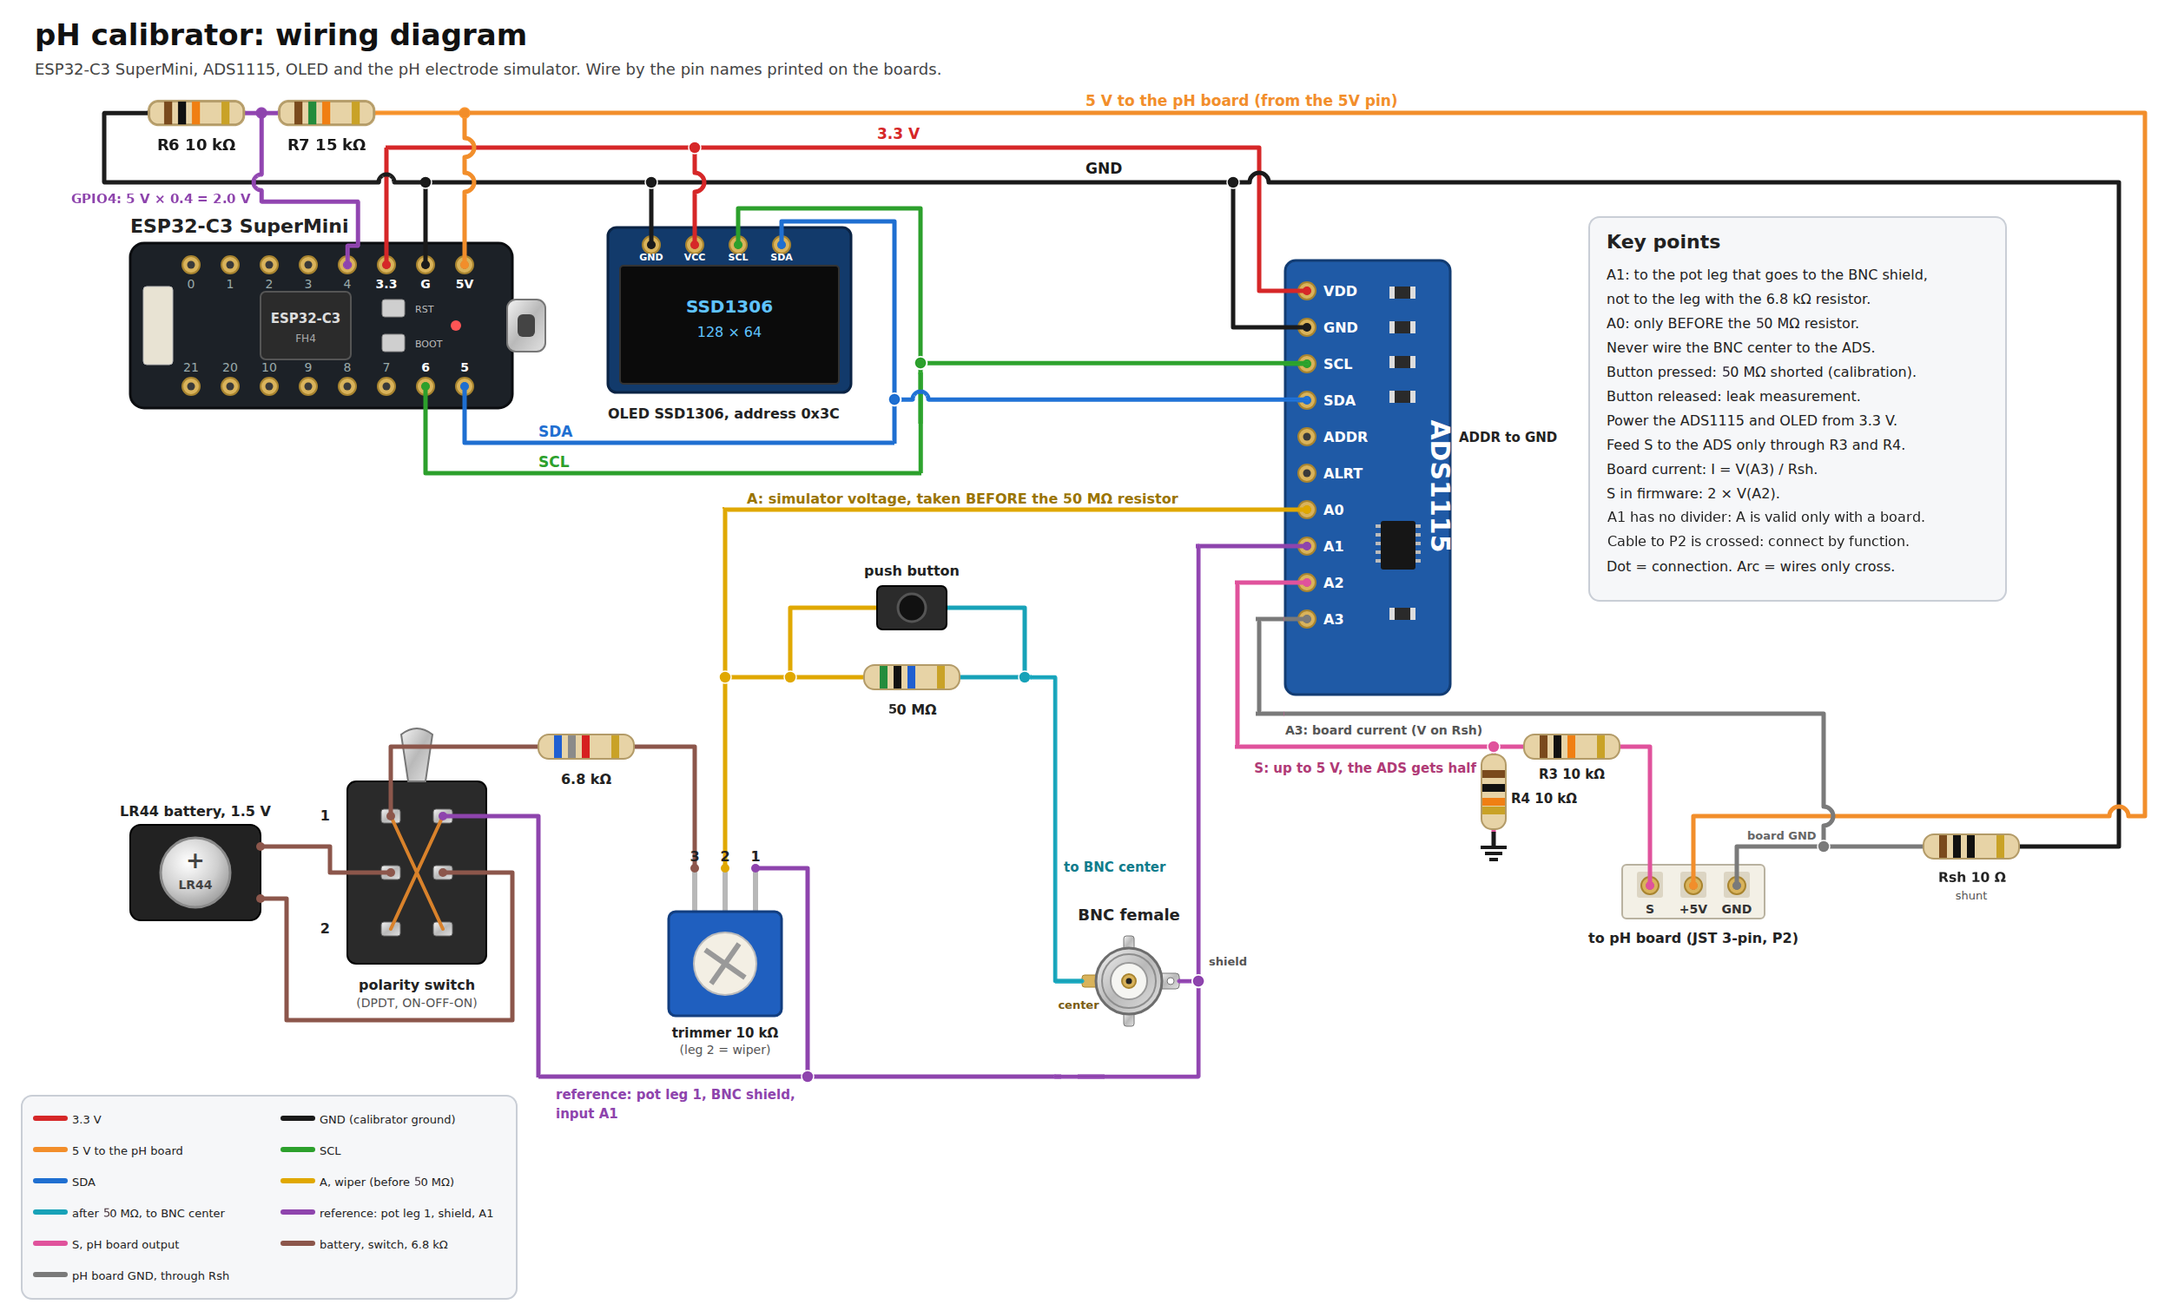
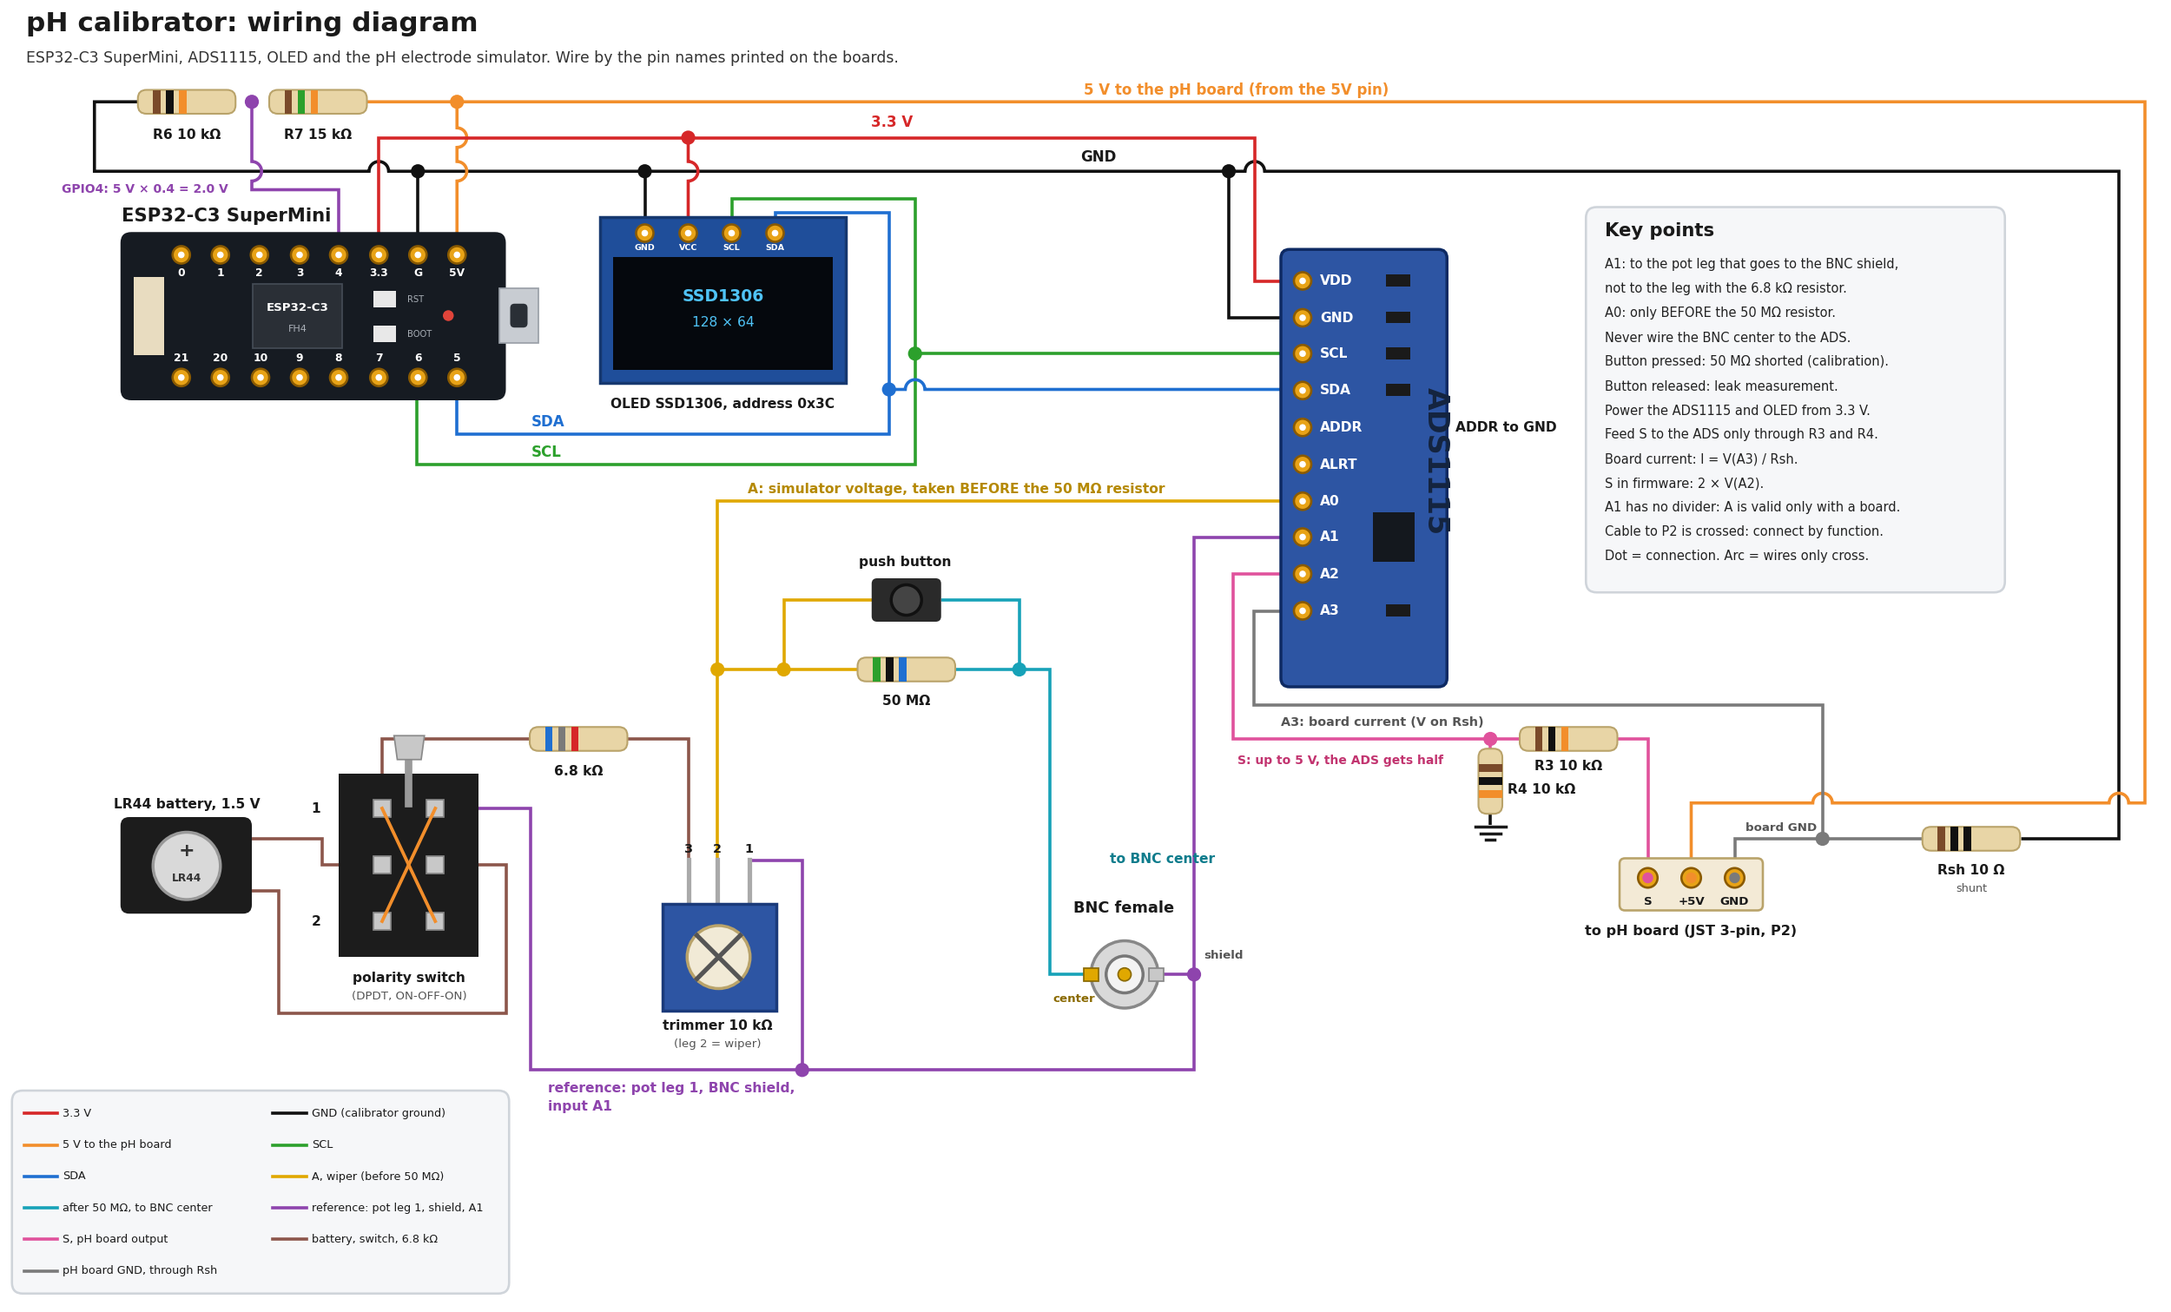
Wiring diagram: redrawn from a script, dots only at wire connections

Changed region(s): [[0.0, 0.0, 0.9984, 0.9649], [0.0, 0.8404, 0.1248, 0.996]]

diff --git a/figures/fig_calibrator_schematic.py b/figures/fig_calibrator_schematic.py
@@ -1,0 +1,329 @@
+#!/usr/bin/env python3
+"""Wiring diagram of the pH calibrator (tester): figures/fig_calibrator_schematic.png
+
+Everything is drawn from the coordinate lists below (units: pixels of a 2000 x 1209 canvas,
+y downwards). A dot is drawn only where a wire is connected to another wire (T junction);
+plain corners get no dot. Where wires only cross, one of them hops over the other.
+
+Usage (from the repository root):  python3 figures/fig_calibrator_schematic.py
+Requires: matplotlib, numpy.
+"""
+import matplotlib
+matplotlib.use("Agg")
+import numpy as np
+import matplotlib.pyplot as plt
+from matplotlib.patches import Rectangle, FancyBboxPatch, Circle, Polygon
+
+W, H = 2000, 1209
+U = 0.64                      # font points per canvas unit (dpi 125)
+RED, ORANGE, BLUE, GREEN = "#d62728", "#f28e2b", "#1f6fd1", "#2ca02c"
+YELLOW, PURPLE, BROWN, GREY = "#e0a800", "#8e44ad", "#8c564b", "#7a7a7a"
+BLACK, TEAL, PINK = "#111111", "#17a2b8", "#e0529c"
+INK = "#1a1a1a"
+LW = 3.6 * 0.576              # wire width in points (about 3.6 px at 125 dpi)
+HOP = 9
+
+fig = plt.figure(figsize=(20, H / 100.0), dpi=125)
+ax = fig.add_axes([0, 0, 1, 1])
+ax.set_xlim(0, W)
+ax.set_ylim(H, 0)
+ax.axis("off")
+
+
+def text(x, y, s, size=14, color=INK, weight="normal", ha="center", va="center", **kw):
+    z = kw.pop("zorder", 20)
+    ax.text(x, y, s, fontsize=size * U, color=color, fontweight=weight, ha=ha, va=va,
+            family="DejaVu Sans", zorder=z, **kw)
+
+
+# ---------------------------------------------------------------- wires
+wires = []          # (color, points)
+
+
+def wire(color, *pts):
+    wires.append((color, list(pts)))
+
+
+# crossings of a horizontal and a vertical wire: the horizontal one hops, except for these
+# vertical wires (identified by colour and x) which hop over the horizontal ones.
+VERTICAL_HOPS = {(ORANGE, 421), (PURPLE, 232), (RED, 634)}
+
+wire(BLACK, (128, 94), (87, 94), (87, 158), (1952, 158), (1952, 773), (1862, 773))         # GND bus
+wire(BLACK, (385, 235), (385, 158))
+wire(BLACK, (594, 215), (594, 158))
+wire(BLACK, (1132, 158), (1132, 293), (1200, 293))
+wire(PURPLE, (232, 94), (232, 175), (312, 175), (312, 235))                                # GPIO4
+wire(ORANGE, (338, 94), (1976, 94), (1976, 740), (1558, 740), (1558, 809))                 # 5 V
+wire(ORANGE, (421, 235), (421, 94))
+wire(RED, (349, 235), (349, 127), (1156, 127), (1156, 259), (1200, 259))                   # 3.3 V
+wire(RED, (634, 215), (634, 127))
+wire(GREEN, (384, 348), (384, 428), (843, 428), (843, 183), (674, 183), (674, 215))        # SCL
+wire(GREEN, (843, 326), (1200, 326))
+wire(BLUE, (421, 348), (421, 400), (819, 400), (819, 196), (714, 196), (714, 215))         # SDA
+wire(BLUE, (819, 359), (1200, 359))
+wire(YELLOW, (661, 792), (661, 462), (1200, 462))                                          # A
+wire(YELLOW, (722, 617), (722, 553), (803, 553))
+wire(YELLOW, (661, 617), (790, 617))
+wire(TEAL, (867, 553), (939, 553), (939, 617), (967, 617), (967, 898), (1000, 898))        # after 50 MOhm
+wire(TEAL, (880, 617), (939, 617))
+wire(PURPLE, (690, 792), (690, 793), (739, 793), (739, 986), (489, 986), (489, 745), (401, 745))   # reference
+wire(PURPLE, (739, 986), (1100, 986), (1100, 495), (1200, 495))
+wire(PURPLE, (1100, 898), (1068, 898))
+wire(BROWN, (232, 773), (297, 773), (297, 797), (352, 797))                                # battery, switch, 6.8k
+wire(BROWN, (232, 821), (257, 821), (257, 934), (466, 934), (466, 797), (401, 797))
+wire(BROWN, (352, 745), (352, 681), (489, 681))
+wire(BROWN, (577, 681), (634, 681), (634, 792))
+wire(PINK, (1200, 529), (1136, 529), (1136, 681), (1400, 681))                             # S
+wire(PINK, (1490, 681), (1518, 681), (1518, 809))
+wire(PINK, (1373, 681), (1373, 690))                                                       # R4 hangs from S
+wire(BLACK, (1373, 750), (1373, 760))                                                      # R4 to ground symbol
+wire(GREY, (1200, 563), (1155, 563), (1155, 650), (1679, 650), (1679, 773), (1771, 773))   # board GND
+wire(GREY, (1679, 773), (1598, 773), (1598, 809))
+
+# T junctions: the dot marks a wire connected to another wire
+JUNCTIONS = [
+    ((232, 94), PURPLE), ((421, 94), ORANGE), ((385, 158), BLACK), ((594, 158), BLACK),
+    ((634, 127), RED), ((1132, 158), BLACK), ((843, 326), GREEN), ((819, 359), BLUE),
+    ((661, 617), YELLOW), ((722, 617), YELLOW), ((939, 617), TEAL), ((739, 986), PURPLE),
+    ((1100, 898), PURPLE), ((1373, 681), PINK), ((1679, 773), GREY),
+]
+
+
+def segs(points):
+    return list(zip(points[:-1], points[1:]))
+
+
+def crossings():
+    """Return {(wire index, segment index): [positions where this segment must hop]}."""
+    hops = {}
+    items = [(i, j, a, b, c) for i, (c, p) in enumerate(wires) for j, (a, b) in enumerate(segs(p))]
+    for (i, j, a, b, c) in items:
+        if a[1] != b[1]:                       # horizontal segments only
+            continue
+        for (k, m, p, q, d) in items:
+            if k == i or p[0] != q[0]:
+                continue
+            x, y = p[0], a[1]
+            if min(a[0], b[0]) < x < max(a[0], b[0]) and min(p[1], q[1]) < y < max(p[1], q[1]):
+                if any(abs(x - jx) < 1 and abs(y - jy) < 1 for (jx, jy), _ in JUNCTIONS):
+                    continue
+                if (d, x) in VERTICAL_HOPS:
+                    hops.setdefault((k, m), []).append((x, y))
+                else:
+                    hops.setdefault((i, j), []).append((x, y))
+    return hops
+
+
+HOPS = crossings()
+
+
+def draw_wire(i):
+    color, pts = wires[i]
+    xs, ys = [pts[0][0]], [pts[0][1]]
+    for j, (a, b) in enumerate(segs(pts)):
+        horizontal = a[1] == b[1]
+        d = 1 if ((b[0] > a[0]) if horizontal else (b[1] > a[1])) else -1
+        hs = sorted(HOPS.get((i, j), []), key=(lambda h: d * h[0]) if horizontal else (lambda h: d * h[1]))
+        for (hx, hy) in hs:
+            t = np.linspace(0, np.pi, 17)
+            if horizontal:
+                xs += [hx - d * HOP + d * HOP * (1 - np.cos(k)) for k in t]
+                ys += [hy - HOP * np.sin(k) for k in t]
+            else:
+                xs += [hx + HOP * np.sin(k) for k in t]
+                ys += [hy - d * HOP + d * HOP * (1 - np.cos(k)) for k in t]
+        xs.append(b[0]); ys.append(b[1])
+    ax.plot(xs, ys, color=color, lw=LW, solid_capstyle="butt", solid_joinstyle="miter", zorder=3)
+
+
+# ---------------------------------------------------------------- components
+def resistor(cx, cy, bands, vertical=False, length=90, thick=22):
+    tan = "#e8d5a6"
+    if vertical:
+        ax.add_patch(FancyBboxPatch((cx - thick / 2, cy - length / 2), thick, length,
+                                    boxstyle="round,pad=0,rounding_size=8", fc=tan, ec="#b9a36a", lw=1.2, zorder=5))
+        for n, c in enumerate(bands):
+            ax.add_patch(Rectangle((cx - thick / 2, cy - length / 2 + 14 + n * 12), thick, 7, fc=c, ec="none", zorder=6))
+    else:
+        ax.add_patch(FancyBboxPatch((cx - length / 2, cy - thick / 2), length, thick,
+                                    boxstyle="round,pad=0,rounding_size=8", fc=tan, ec="#b9a36a", lw=1.2, zorder=5))
+        for n, c in enumerate(bands):
+            ax.add_patch(Rectangle((cx - length / 2 + 14 + n * 12, cy - thick / 2), 7, thick, fc=c, ec="none", zorder=6))
+
+
+def pad(x, y, r=8, fc="#e8a317", ec="#8a5a00"):
+    ax.add_patch(Circle((x, y), r, fc=fc, ec=ec, lw=1.5, zorder=7))
+    ax.add_patch(Circle((x, y), r * 0.38, fc="#ffffff", ec="none", zorder=8))
+
+
+# title
+text(24, 22, "pH calibrator: wiring diagram", 28, weight="bold", ha="left")
+text(24, 54, "ESP32-C3 SuperMini, ADS1115, OLED and the pH electrode simulator. "
+     "Wire by the pin names printed on the boards.", 15.5, color="#333333", ha="left")
+
+# wire labels
+text(1139, 83, "5 V to the pH board (from the 5V pin)", 15, ORANGE, "bold")
+text(822, 113, "3.3 V", 15, RED, "bold")
+text(1012, 145, "GND", 15, INK, "bold")
+text(57, 174, "GPIO4: 5 V × 0.4 = 2.0 V", 12.5, PURPLE, "bold", ha="left")
+text(505, 389, "SDA", 15, BLUE, "bold")
+text(503, 417, "SCL", 15, GREEN, "bold")
+text(881, 451, "A: simulator voltage, taken BEFORE the 50 MΩ resistor", 14, "#b58900", "bold")
+text(505, 1003, "reference: pot leg 1, BNC shield,", 14, PURPLE, "bold", ha="left")
+text(505, 1020, "input A1", 14, PURPLE, "bold", ha="left")
+text(1022, 792, "to BNC center", 14, "#0e7c8c", "bold", ha="left")
+text(1140, 701, "S: up to 5 V, the ADS gets half", 12.5, "#c2336f", "bold", ha="left")
+text(1180, 666, "A3: board current (V on Rsh)", 13, "#555555", "bold", ha="left")
+text(1608, 763, "board GND", 12, "#555555", "bold", ha="left")
+
+# resistors
+resistor(172, 94, ["#7a4a2a", "#111111", "#f28e2b"])
+text(172, 124, "R6 10 kΩ", 14, weight="bold")
+resistor(293, 94, ["#7a4a2a", "#2ca02c", "#f28e2b"])
+text(293, 124, "R7 15 kΩ", 14, weight="bold")
+resistor(533, 681, ["#1f6fd1", "#7a7a7a", "#d62728"])
+text(533, 711, "6.8 kΩ", 14, weight="bold")
+resistor(835, 617, ["#2ca02c", "#111111", "#1f6fd1"])
+text(835, 646, "50 MΩ", 14, weight="bold")
+resistor(1445, 681, ["#7a4a2a", "#111111", "#f28e2b"])
+text(1445, 706, "R3 10 kΩ", 14, weight="bold")
+resistor(1373, 720, ["#7a4a2a", "#111111", "#f28e2b"], vertical=True, length=60, thick=22)
+text(1389, 728, "R4 10 kΩ", 14, weight="bold", ha="left")
+resistor(1816, 773, ["#7a4a2a", "#111111", "#111111"])
+text(1816, 802, "Rsh 10 Ω", 14, weight="bold")
+text(1816, 819, "shunt", 11.5, "#555555")
+for dy, w in ((0, 14), (6, 9), (12, 4)):
+    ax.plot([1373 - w, 1373 + w], [762 + dy, 762 + dy], color=INK, lw=2, zorder=5)
+
+# ESP32-C3 SuperMini
+text(112, 199, "ESP32-C3 SuperMini", 19, weight="bold", ha="left")
+ax.add_patch(FancyBboxPatch((111, 214), 355, 155, boxstyle="round,pad=0,rounding_size=10", fc="#161b22", ec="none", zorder=4))
+ax.add_patch(Rectangle((123, 255), 28, 72, fc="#e8dcc0", ec="none", zorder=5))
+ax.add_patch(Rectangle((460, 266), 36, 50, fc="#c8ccd2", ec="#9aa0a8", zorder=5))
+ax.add_patch(FancyBboxPatch((470, 280), 16, 22, boxstyle="round,pad=0,rounding_size=4", fc="#2a2f36", ec="none", zorder=6))
+ax.add_patch(Rectangle((233, 262), 82, 59, fc="#2a2f36", ec="#444b55", zorder=5))
+text(274, 284, "ESP32-C3", 12, "#ffffff", "bold")
+text(274, 303, "FH4", 10, "#aab0b8")
+ax.add_patch(Rectangle((344, 268), 21, 15, fc="#e8e8e8", ec="none", zorder=6))
+ax.add_patch(Rectangle((344, 300), 21, 15, fc="#e8e8e8", ec="none", zorder=6))
+text(375, 276, "RST", 9, "#aab0b8", ha="left")
+text(375, 308, "BOOT", 9, "#aab0b8", ha="left")
+ax.add_patch(Circle((413, 291), 5, fc="#e0443a", ec="none", zorder=6))
+for x, lab in zip([167, 203, 239, 276, 312, 349, 385, 421], ["0", "1", "2", "3", "4", "3.3", "G", "5V"]):
+    pad(x, 235)
+    text(x, 252, lab, 11, "#ffffff", "bold")
+for x, lab in zip([167, 203, 240, 276, 312, 349, 385, 421], ["21", "20", "10", "9", "8", "7", "6", "5"]):
+    pad(x, 348)
+    text(x, 330, lab, 11, "#ffffff", "bold")
+
+# OLED
+ax.add_patch(Rectangle((553, 200), 226, 153, fc="#1f4e9a", ec="#16386f", lw=2, zorder=4))
+ax.add_patch(Rectangle((565, 237), 202, 104, fc="#05080d", ec="none", zorder=5))
+text(666, 273, "SSD1306", 17, "#4fc3f7", "bold")
+text(666, 297, "128 × 64", 14, "#4fc3f7")
+for x, lab in zip([594, 634, 674, 714], ["GND", "VCC", "SCL", "SDA"]):
+    pad(x, 215, 8)
+    text(x, 228, lab, 8.5, "#ffffff", "bold")
+text(666, 372, "OLED SSD1306, address 0x3C", 14, weight="bold")
+
+# ADS1115
+ax.add_patch(FancyBboxPatch((1180, 230), 153, 403, boxstyle="round,pad=0,rounding_size=8", fc="#2d55a3", ec="#0e2a63", lw=2, zorder=4))
+for y, lab in zip([259, 293, 326, 360, 394, 428, 462, 495, 529, 563],
+                  ["VDD", "GND", "SCL", "SDA", "ADDR", "ALRT", "A0", "A1", "A2", "A3"]):
+    pad(1200, y)
+    text(1216, y, lab, 14, "#ffffff", "bold", ha="left")
+for y in (259, 293, 326, 360, 563):
+    ax.add_patch(Rectangle((1277, y - 6), 22, 11, fc="#1a1a1a", ec="none", zorder=5))
+ax.add_patch(Rectangle((1265, 472), 38, 46, fc="#14181e", ec="none", zorder=5))
+text(1323, 425, "ADS1115", 30, "#14243f", "bold", rotation=270)
+text(1341, 394, "ADDR to GND", 14, weight="bold", ha="left")
+
+# push button, trimmer, BNC, battery, switch
+text(834, 518, "push button", 14, weight="bold")
+ax.add_patch(FancyBboxPatch((803, 533), 64, 40, boxstyle="round,pad=0,rounding_size=5", fc="#2a2a2a", ec="none", zorder=5))
+ax.add_patch(Circle((835, 553), 14, fc="#444444", ec="#111111", lw=2, zorder=6))
+ax.add_patch(Rectangle((610, 833), 105, 98, fc="#2d55a3", ec="#1a3a7a", lw=2, zorder=5))
+ax.add_patch(Circle((662, 882), 29, fc="#f1ead6", ec="#b9a36a", lw=2, zorder=6))
+ax.plot([642, 682], [862, 902], color="#555", lw=3, zorder=7)
+ax.plot([642, 682], [902, 862], color="#555", lw=3, zorder=7)
+for x in (634, 661, 690):
+    ax.plot([x, x], [792, 833], color="#aaaaaa", lw=3, zorder=4)
+for x, n in ((634, "3"), (661, "2"), (690, "1")):
+    text(x, 782, n, 13, weight="bold")
+text(661, 945, "trimmer 10 kΩ", 14, weight="bold")
+text(661, 962, "(leg 2 = wiper)", 12, "#555555")
+ax.add_patch(Circle((1036, 898), 31, fc="#d9d9d9", ec="#888888", lw=2, zorder=5))
+ax.add_patch(Circle((1036, 898), 17, fc="#f3f3f3", ec="#777777", lw=2, zorder=6))
+ax.add_patch(Circle((1036, 898), 6, fc="#e0a800", ec="#8a6a00", zorder=7))
+ax.add_patch(Rectangle((1058, 892), 14, 12, fc="#c8c8c8", ec="#888", zorder=5))
+ax.add_patch(Rectangle((998, 892), 14, 12, fc="#e0a800", ec="#8a6a00", zorder=5))
+text(1035, 837, "BNC female", 16, weight="bold")
+text(989, 920, "center", 12, "#8a6a00", "bold")
+text(1127, 880, "shield", 12, "#555555", "bold")
+text(172, 741, "LR44 battery, 1.5 V", 14, weight="bold")
+ax.add_patch(FancyBboxPatch((111, 753), 121, 89, boxstyle="round,pad=0,rounding_size=8", fc="#1c1c1c", ec="none", zorder=5))
+ax.add_patch(Circle((172, 798), 31, fc="#d9d9d9", ec="#999", lw=2, zorder=6))
+text(172, 784, "+", 20, "#333", "bold", zorder=8)
+text(172, 809, "LR44", 11, "#333", "bold", zorder=8)
+ax.add_patch(Rectangle((312, 713), 129, 169, fc="#1c1c1c", ec="none", zorder=4))
+ax.add_patch(Polygon([[366, 700], [388, 700], [391, 678], [363, 678]], fc="#c8c8c8", ec="#8a8a8a", zorder=6))
+ax.plot([376, 376], [700, 740], color="#9a9a9a", lw=5, zorder=5)
+for (x, y) in ((352, 745), (401, 745), (352, 797), (401, 797), (352, 849), (401, 849)):
+    ax.add_patch(Rectangle((x - 8, y - 8), 16, 16, fc="#c8c8c8", ec="#888", zorder=6))
+ax.plot([352, 401], [745, 849], color=ORANGE, lw=2.2, zorder=7)
+ax.plot([401, 352], [745, 849], color=ORANGE, lw=2.2, zorder=7)
+text(291, 745, "1", 14, weight="bold")
+text(291, 849, "2", 14, weight="bold")
+text(377, 901, "polarity switch", 14, weight="bold")
+text(377, 918, "(DPDT, ON-OFF-ON)", 12, "#555555")
+
+# JST connector to the pH board
+ax.add_patch(FancyBboxPatch((1492, 791), 132, 48, boxstyle="round,pad=0,rounding_size=5", fc="#f3ead6", ec="#b9a36a", lw=1.5, zorder=4))
+for x, lab, c in ((1518, "S", PINK), (1558, "+5V", ORANGE), (1598, "GND", GREY)):
+    pad(x, 809, 9)
+    ax.add_patch(Circle((x, 809), 5, fc=c, ec="none", zorder=9))
+    text(x, 831, lab, 12, weight="bold")
+text(1558, 858, "to pH board (JST 3-pin, P2)", 14.5, weight="bold")
+
+# Key points box
+ax.add_patch(FancyBboxPatch((1461, 191), 386, 355, boxstyle="round,pad=0,rounding_size=10", fc="#f6f7f9", ec="#cfd4da", lw=1.5, zorder=2))
+text(1478, 213, "Key points", 19, weight="bold", ha="left")
+KEY = [
+    "A1: to the pot leg that goes to the BNC shield,",
+    "not to the leg with the 6.8 kΩ resistor.",
+    "A0: only BEFORE the 50 MΩ resistor.",
+    "Never wire the BNC center to the ADS.",
+    "Button pressed: 50 MΩ shorted (calibration).",
+    "Button released: leak measurement.",
+    "Power the ADS1115 and OLED from 3.3 V.",
+    "Feed S to the ADS only through R3 and R4.",
+    "Board current: I = V(A3) / Rsh.",
+    "S in firmware: 2 × V(A2).",
+    "A1 has no divider: A is valid only with a board.",
+    "Cable to P2 is crossed: connect by function.",
+    "Dot = connection. Arc = wires only cross.",
+]
+for n, line in enumerate(KEY):
+    text(1478, 244 + n * 22.4, line, 13.2, "#222222", ha="left")
+
+# legend
+ax.add_patch(FancyBboxPatch((11, 1005), 458, 187, boxstyle="round,pad=0,rounding_size=10", fc="#f6f7f9", ec="#cfd4da", lw=1.5, zorder=2))
+LEG = [(RED, "3.3 V"), (ORANGE, "5 V to the pH board"), (BLUE, "SDA"), (TEAL, "after 50 MΩ, to BNC center"),
+       (PINK, "S, pH board output"), (GREY, "pH board GND, through Rsh")]
+LEG2 = [(BLACK, "GND (calibrator ground)"), (GREEN, "SCL"), (YELLOW, "A, wiper (before 50 MΩ)"),
+        (PURPLE, "reference: pot leg 1, shield, A1"), (BROWN, "battery, switch, 6.8 kΩ")]
+for n, (c, s) in enumerate(LEG):
+    ax.plot([22, 53], [1026 + n * 29] * 2, color=c, lw=LW, zorder=4)
+    text(58, 1026 + n * 29, s, 11.5, ha="left")
+for n, (c, s) in enumerate(LEG2):
+    ax.plot([251, 282], [1026 + n * 29] * 2, color=c, lw=LW, zorder=4)
+    text(287, 1026 + n * 29, s, 11.5, ha="left")
+
+# wires and junction dots on top of everything else
+for i in range(len(wires)):
+    draw_wire(i)
+for (x, y), c in JUNCTIONS:
+    ax.add_patch(Circle((x, y), 6.5, fc=c, ec="none", zorder=10))
+
+fig.savefig("figures/fig_calibrator_schematic.png", dpi=125, facecolor="white")
+print("wrote figures/fig_calibrator_schematic.png")
